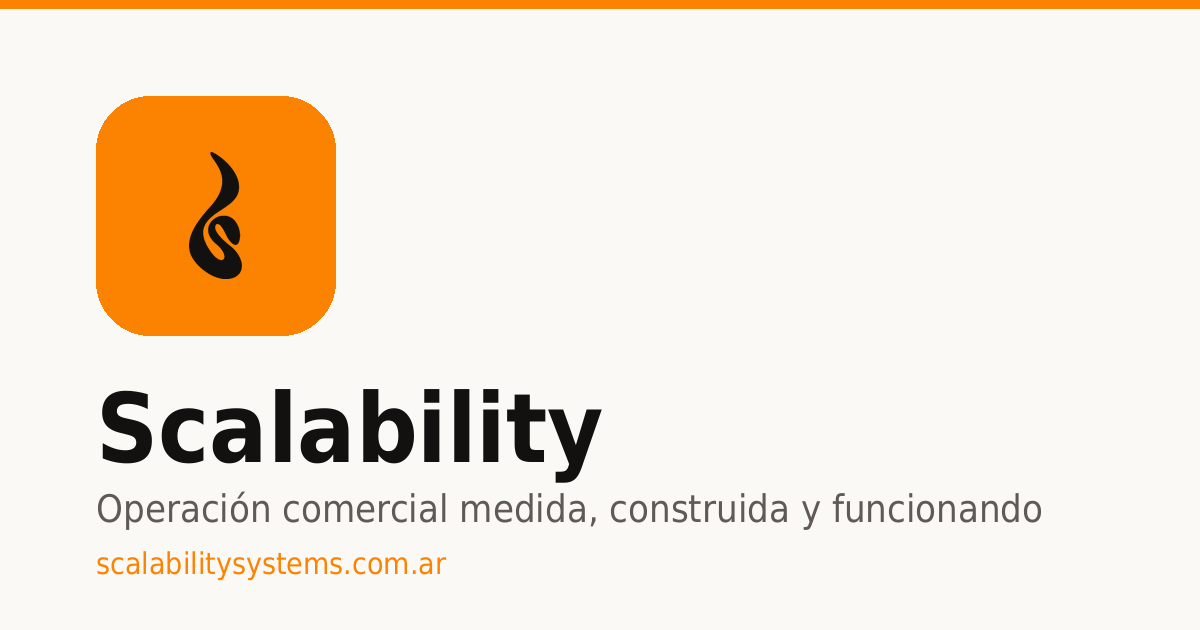
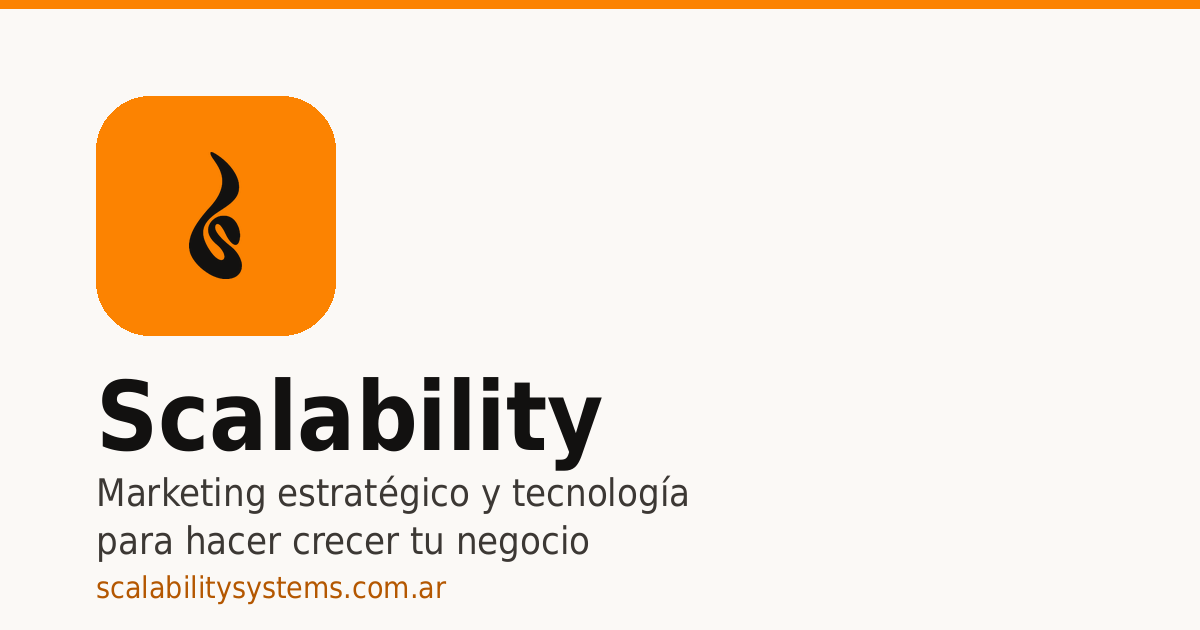
SEO tecnico y accesibilidad: robots, sitemap, JSON-LD, contraste AA, tabla responsive y salto al contenido

Changed region(s): [[0.0617, 0.6032, 0.8633, 0.9651]]

diff --git a/publico/blog/index.html b/publico/blog/index.html
@@ -20,7 +20,7 @@
 <header>
   <div class="wrap">
     <a class="marca" href="../index.html"><img src="../icono.png" alt="">Scalability</a>
-    <nav><a href="../index.html#oferta">La propuesta</a><a href="index.html">Blog</a></nav>
+    <nav aria-label="Principal"><a href="../index.html">Inicio</a><a href="../index.html#soluciones">Soluciones</a><a href="index.html">Blog</a></nav>
   </div>
 </header>
 

diff --git a/publico/blog/claude-code-autonomo.html b/publico/blog/claude-code-autonomo.html
@@ -23,7 +23,7 @@
 <header>
   <div class="wrap">
     <a class="marca" href="../index.html"><img src="../icono.png" alt="">Scalability</a>
-    <nav><a href="../index.html#como">Cómo trabajo</a><a href="index.html">Blog</a></nav>
+    <nav aria-label="Principal"><a href="../index.html">Inicio</a><a href="../index.html#metodo">Método</a><a href="index.html">Blog</a></nav>
   </div>
 </header>
 

diff --git a/publico/blog/flujo-agentes-sin-modelo.html b/publico/blog/flujo-agentes-sin-modelo.html
@@ -23,7 +23,7 @@
 <header>
   <div class="wrap">
     <a class="marca" href="../index.html"><img src="../icono.png" alt="">Scalability</a>
-    <nav><a href="../index.html#como">Cómo trabajo</a><a href="index.html">Blog</a></nav>
+    <nav aria-label="Principal"><a href="../index.html">Inicio</a><a href="../index.html#metodo">Método</a><a href="index.html">Blog</a></nav>
   </div>
 </header>
 

diff --git a/herramientas/assets.py b/herramientas/assets.py
@@ -49,9 +49,10 @@ og.paste(logo, (96, 96), logo)
 bold = ImageFont.truetype('/home/ubuntu/.local/share/fonts/DejaVuSansCondensed-Bold.ttf', 96)
 semi = ImageFont.truetype('/home/ubuntu/.local/share/fonts/DejaVuSansCondensed.ttf', 38)
 small = ImageFont.truetype('/home/ubuntu/.local/share/fonts/DejaVuSansCondensed.ttf', 30)
-d.text((96, 372), 'Scalability', font=bold, fill=INK)
-d.text((96, 486), 'Operación comercial medida, construida y funcionando', font=semi, fill=(95, 90, 85))
-d.text((96, 546), 'scalabilitysystems.com.ar', font=small, fill=ORANGE)
+d.text((96, 360), 'Scalability', font=bold, fill=INK)
+d.text((96, 470), 'Marketing estratégico y tecnología', font=semi, fill=(60, 56, 52))
+d.text((96, 518), 'para hacer crecer tu negocio', font=semi, fill=(60, 56, 52))
+d.text((96, 570), 'scalabilitysystems.com.ar', font=small, fill=(180, 87, 0))
 og.save(OUT / 'og.png', optimize=True)
 
 for f in ('icono.png', 'icono-180.png', 'og.png'):

diff --git a/LEEME.md b/LEEME.md
@@ -59,12 +59,34 @@ criterio de "está hecha" de cada una) y `~/Scalability/comercial/propuesta-pilo
 como ejemplo de propuesta escrita. Si un cambio de texto contradice ese documento,
 primero se discute la propuesta y después se toca el HTML.
 
-**Lo que el sitio vende hoy** (agosto 2026 en adelante): consultoría de operación
-comercial en tres etapas — **medir** (diagnóstico pago, línea base del Día 1), **construir**
-(las cinco piezas: oferta, canal, entrega, recurrencia, cobro, y la tecnología solo si el
-problema la pide) y **medir de nuevo** (Día 1 contra Día 30/90/120, mensual). No se vende
-un bot: la herramienta es la última decisión, nunca la primera. El autotest de 10 preguntas
-(`diagnostico.html`) es la puerta de entrada gratis; el diagnóstico es el producto pago.
+**Lo que el sitio vende hoy** (octubre 2026): **marketing estratégico y tecnología**.
+Cinco frentes — estrategia y crecimiento comercial, sitios y sistemas de conversión,
+automatización de procesos comerciales, soluciones tecnológicas a medida y analítica —
+sobre un método de cinco pasos: entender, diagnosticar, definir y priorizar, diseñar e
+implementar, medir y optimizar.
+
+Las reglas de redacción que no se rompen:
+- La analítica es una capacidad, **no** el posicionamiento. Si el sitio empieza a parecer
+  una consultora de BI, está mal.
+- La herramienta sale del problema: nunca “necesitás tal software” antes de mostrarlo.
+- No se publican precios, cifras de resultado, ni casos con nombre de cliente. Lo que no
+  se puede respaldar, no se escribe.
+- El autotest de 10 preguntas (`diagnostico.html`) es el lead magnet: la única vía de
+  captación con formulario, y el resultado se ve en pantalla.
+
+## SEO y accesibilidad (lo que ya está puesto)
+
+- `publico/robots.txt` y `publico/sitemap.xml` (con `lastmod` por página: **actualizarlo
+  cuando cambia una URL**).
+- JSON-LD `ProfessionalService` en la portada. Si cambia el teléfono o el mail, se cambian
+  ahí también.
+- Un solo `h1` por página, `canonical` y `og:` completos en todas.
+- La paleta está separada en `--acc` (rellenos), `--acc-mid` (solo títulos grandes) y
+  `--acc-text` (enlaces y rótulos chicos). **No usar `--acc` para texto**: sobre papel da
+  2.38:1 y no pasa AA. Los botones van con texto negro sobre naranja (7.47:1).
+- La tabla del caso se convierte en tarjetas en el teléfono (dos columnas de 170 px no se
+  leen).
+- Salto al contenido (`.saltar`) en la portada y en el autotest.
 
 > Los marcadores entre corchetes (`[EMAIL]`, `[CUIT]`, `[PLAZO]` y demás) ya
 > están todos completados. Si alguna vez agregás una página nueva, verificá
